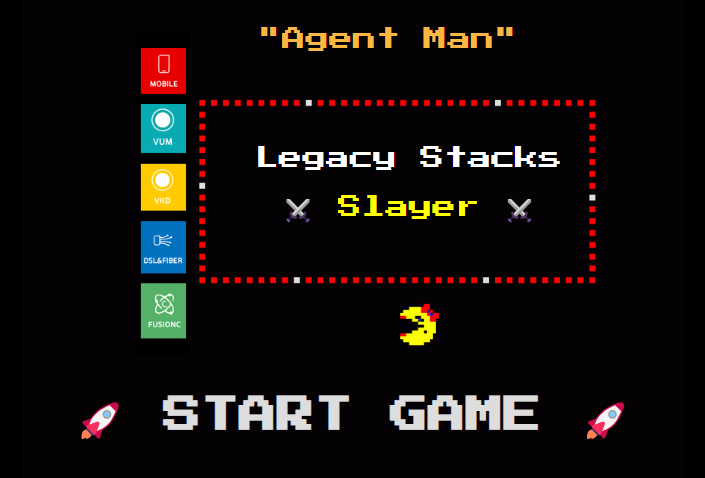
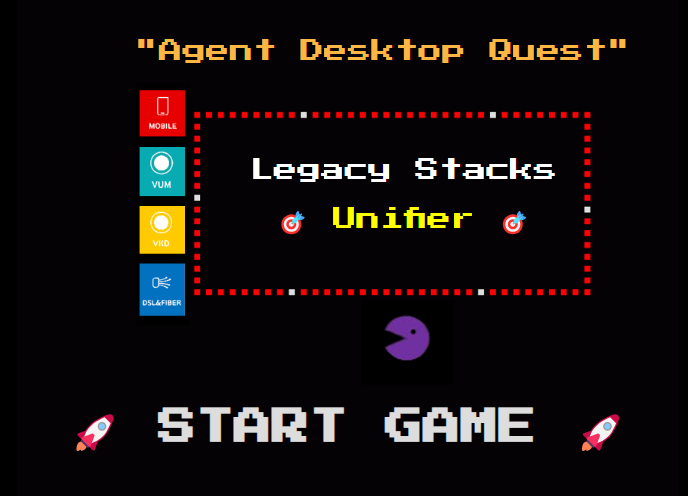
Update README to reflect project rebranding to VOIS Agent Desktop Quest

diff --git a/README.md b/README.md
@@ -1,9 +1,9 @@
 ![Artwork](./src/img/stuff/art.png)
 
-jsPacman
-========
+Agent Desktop Quest
+===================
 
-**jsPacman** is a JavaScript DOM-based remake of the classic [Ms. Pac-Man](https://en.wikipedia.org/wiki/Ms._Pac-Man) game.
+**Agent Desktop Quest** is a modern JavaScript remake of the classic [Ms. Pac-Man](https://en.wikipedia.org/wiki/Ms._Pac-Man) game, featuring updated graphics for the legacy stacks unifier experience.
 
 Play Demo
 -----------
@@ -11,8 +11,8 @@ Play Demo
 
 Credits
 -----------
-* Game algorithm is based on [The Pac-Man Dossier](https://pacman.holenet.info/).
-* Sprites are from [spriters-resource](http://www.spriters-resource.com/game_boy_advance/namcomuseum/sheet/22732).
+* Original game algorithm is based on [The Pac-Man Dossier](https://pacman.holenet.info/).
+* Enhanced with custom SVG graphicsfor the Agent Desktop Quest experience.
 
 Development
 -----------
